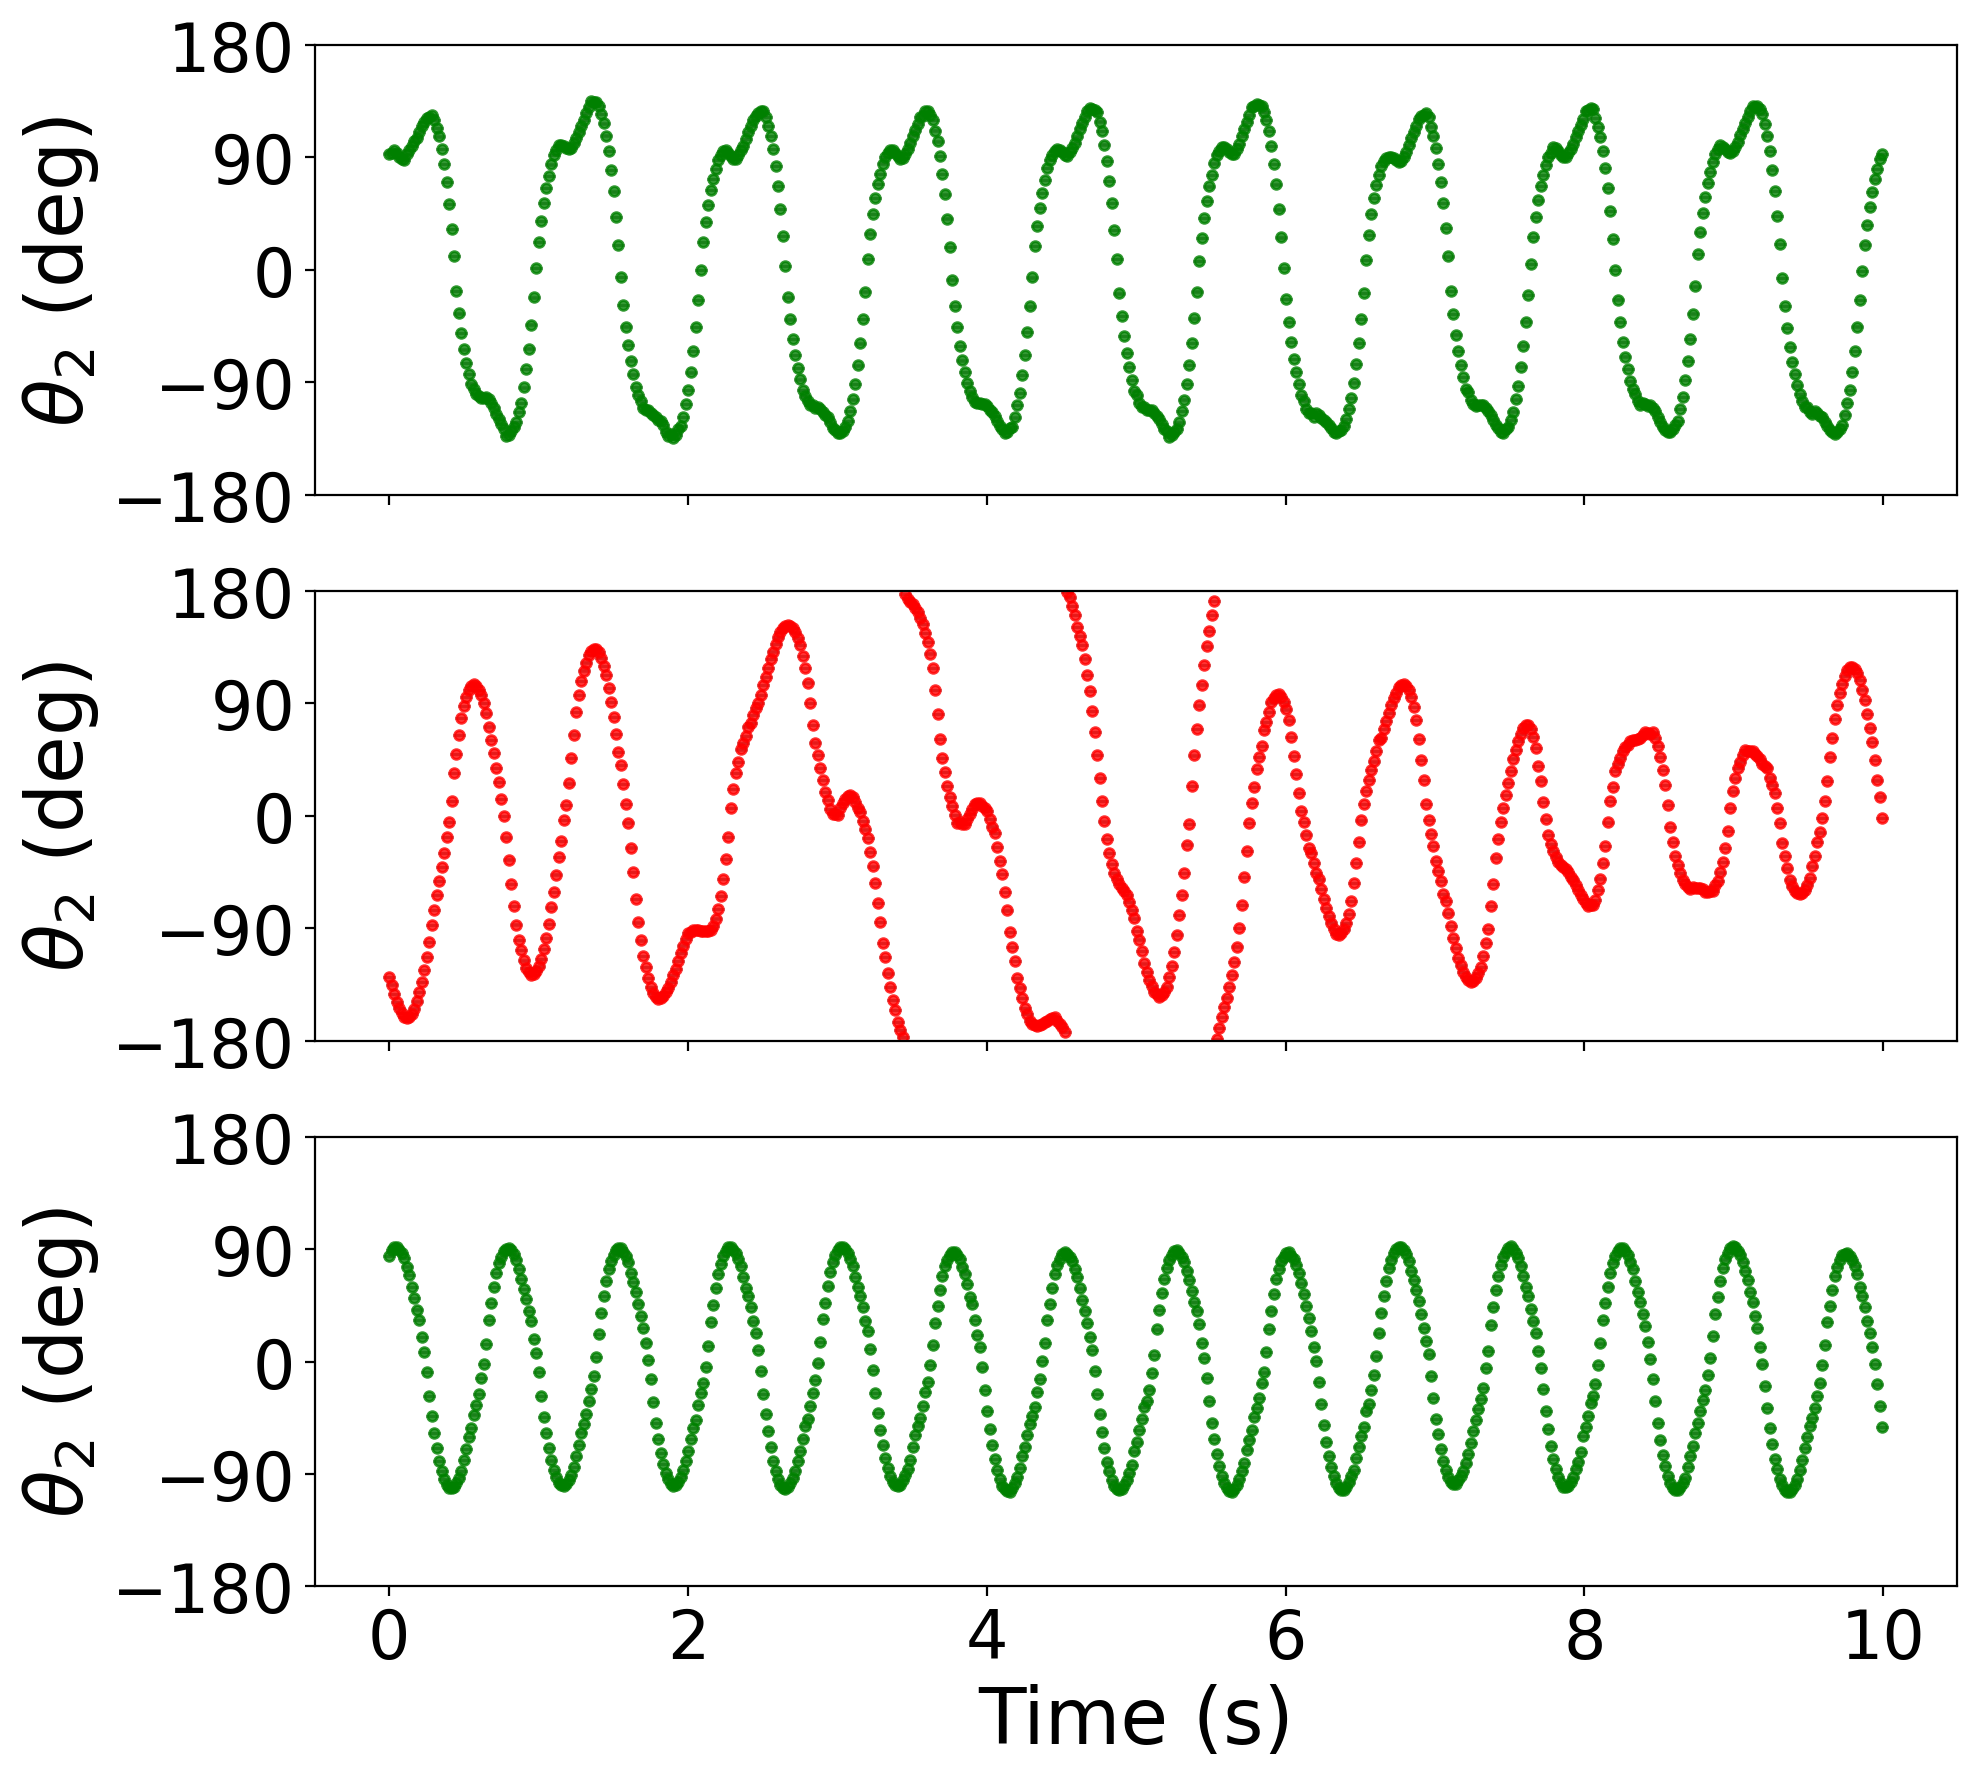
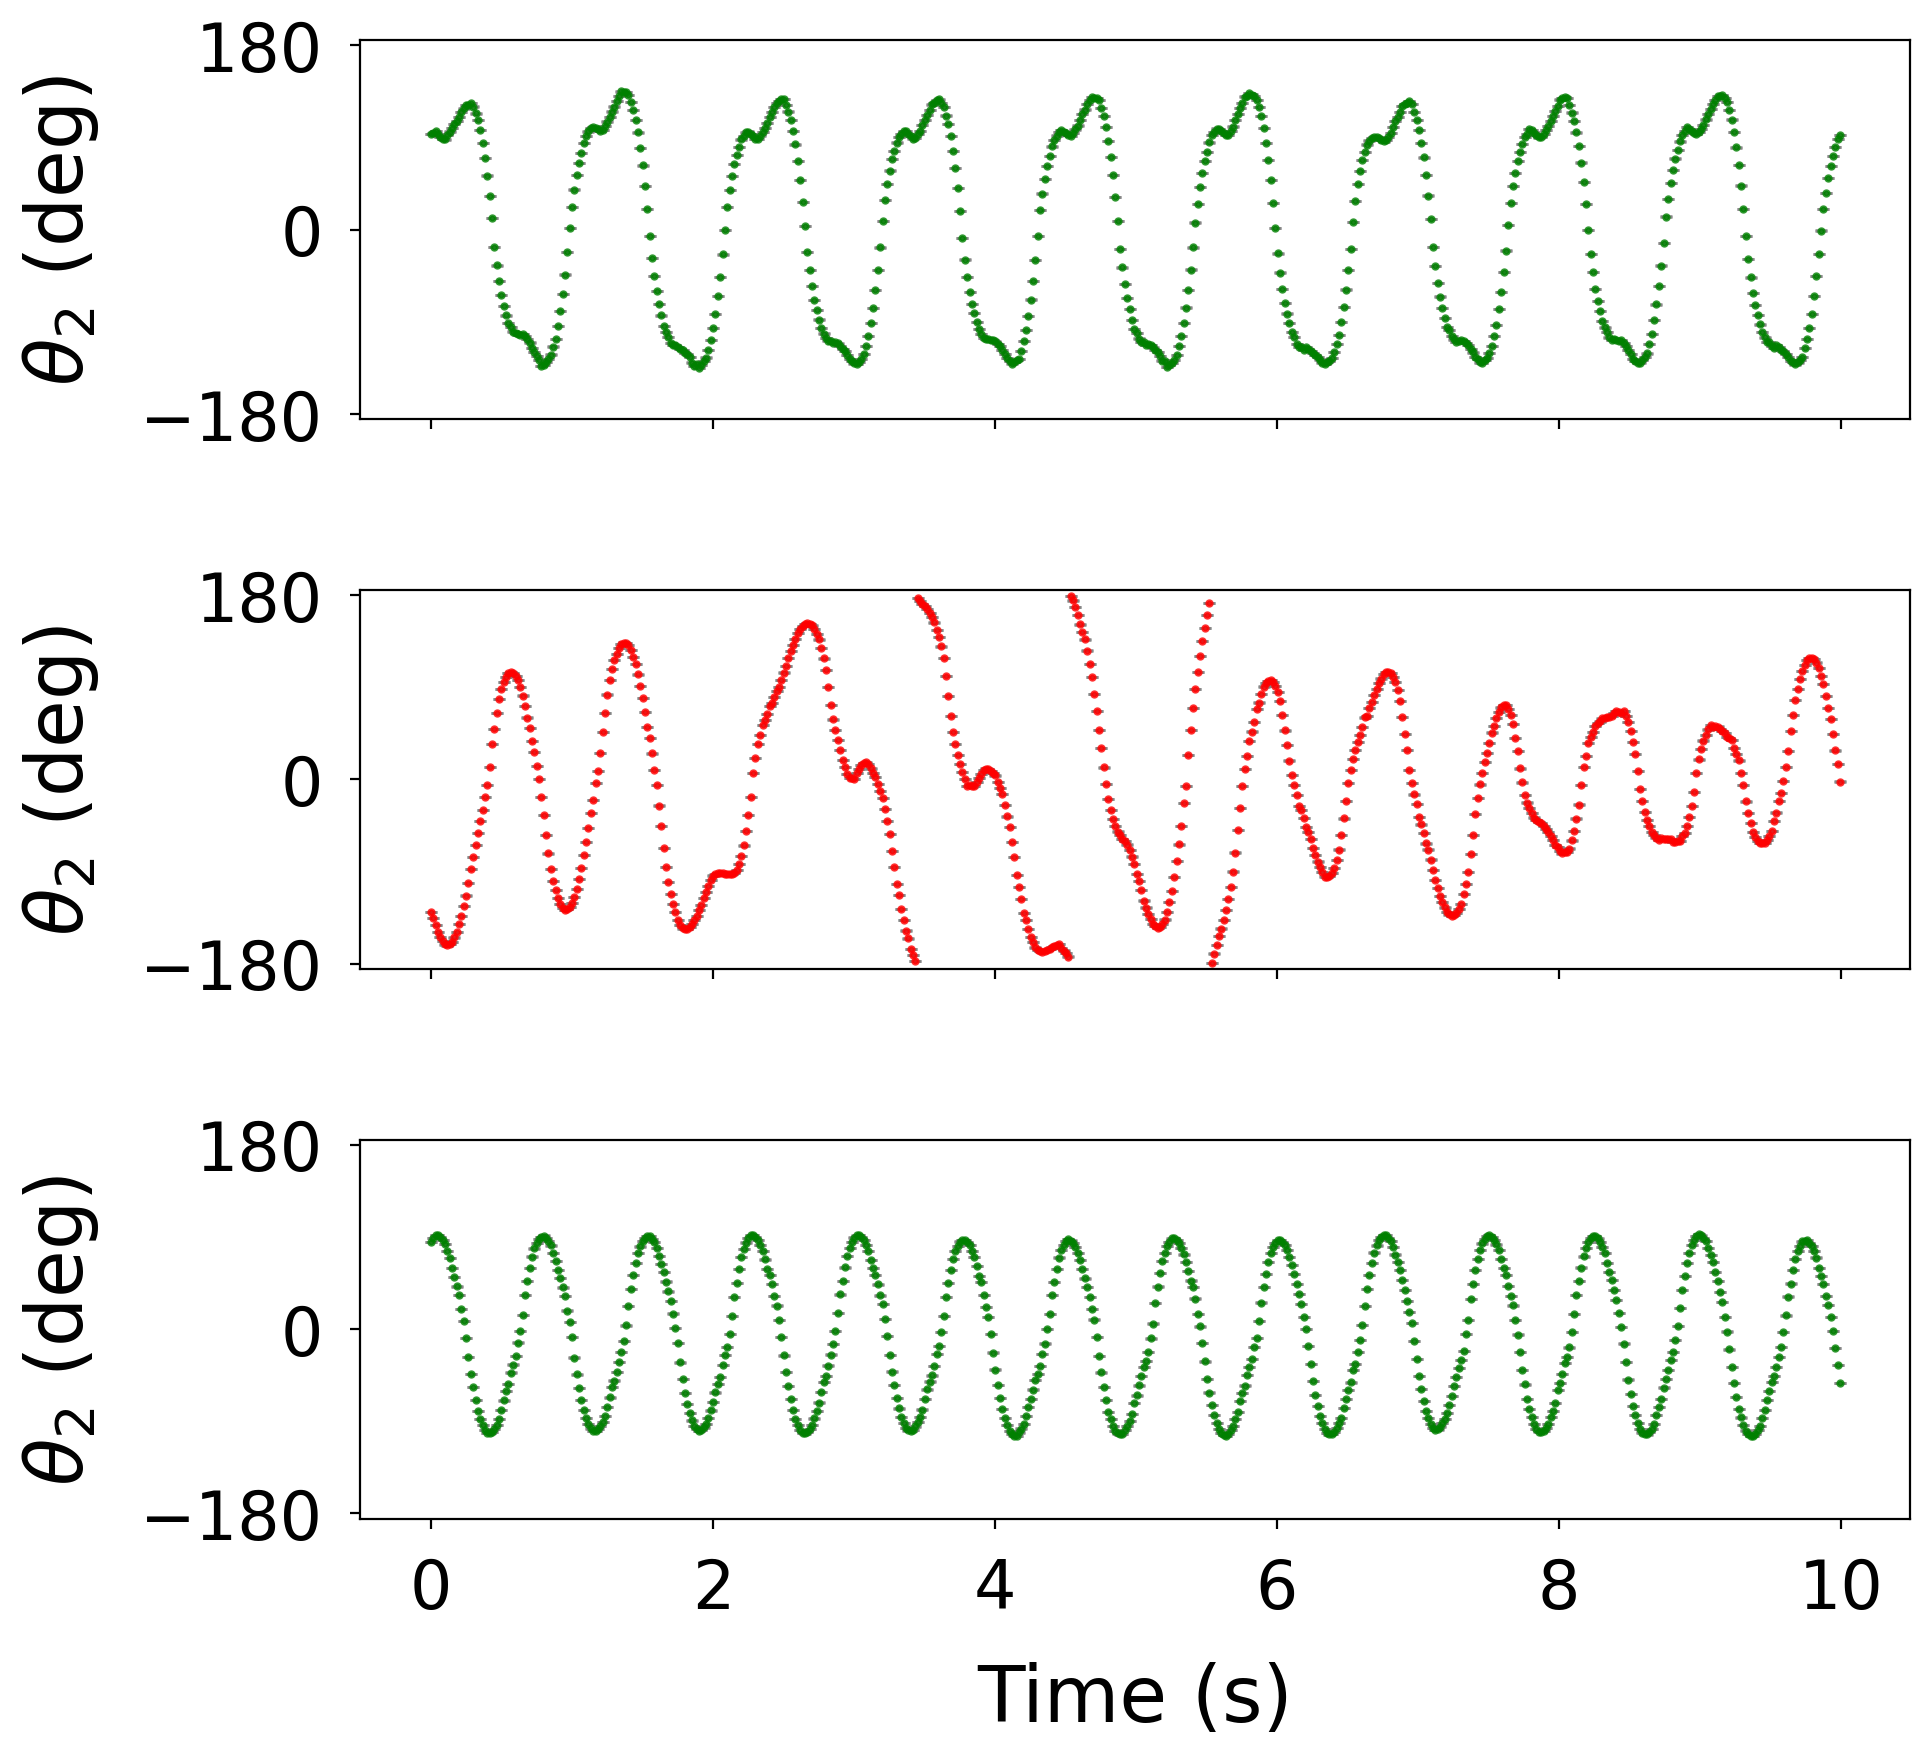
report: declutter theta2 figure — sparser markers, 3 y-ticks, more spacing
Only -180/0/180 y-ticks, smaller markers, and added inter-subplot hspace
plus tick/label padding for breathing room.

diff --git a/experiments/week6-pendulum-motor-driven/report/theta2_colored.py b/experiments/week6-pendulum-motor-driven/report/theta2_colored.py
@@ -31,11 +31,14 @@ CHOSEN_FREQS = [0.9, 1.19, 1.34]
 PANEL_COLORS = ["green", "red", "green"]
 
 # --- PLOT SETTINGS ---
-MARKER_SIZE = 7         # Size of the scatter points
+MARKER_SIZE = 4         # Size of the scatter points (smaller -> less dense)
 LABEL_FONT_SIZE = 28    # Size of the X and Y axis titles
 TICK_FONT_SIZE = 24     # Size of the numbers on the axes
-Y_LIM = (-180, 180)
-Y_TICKS = [-180, -90, 0, 90, 180]
+TICK_PAD = 10           # Gap between tick numbers and the axis
+LABEL_PAD = 14          # Gap between axis title and the tick numbers
+HSPACE = 0.45           # Vertical breathing room between subplots
+Y_LIM = (-185, 185)
+Y_TICKS = [-180, 0, 180]
 # ---------------------
 
 csv_files = glob.glob(os.path.join(BASE_DIR, "*", "tracking.csv"), recursive=True)
@@ -61,7 +64,12 @@ for file_path in csv_files:
 # =============================================================================
 # 3. LOAD & PLOT
 # =============================================================================
-fig, axs = plt.subplots(len(CHOSEN_FREQS), 1, figsize=(10, 3 * len(CHOSEN_FREQS)), sharex=True)
+fig, axs = plt.subplots(
+    len(CHOSEN_FREQS), 1,
+    figsize=(10, 3.2 * len(CHOSEN_FREQS)),
+    sharex=True,
+    gridspec_kw={"hspace": HSPACE},
+)
 axs = np.atleast_1d(axs)
 
 for i, target_freq in enumerate(CHOSEN_FREQS):
@@ -99,13 +107,12 @@ for i, target_freq in enumerate(CHOSEN_FREQS):
     # =========================================================================
     # 4. FORMATTING
     # =========================================================================
-    ax.set_ylabel(f"$\\theta_2$ (deg)", fontsize=LABEL_FONT_SIZE)
+    ax.set_ylabel(f"$\\theta_2$ (deg)", fontsize=LABEL_FONT_SIZE, labelpad=LABEL_PAD)
     ax.set_ylim(*Y_LIM)
     ax.set_yticks(Y_TICKS)
-    ax.tick_params(axis="both", which="major", labelsize=TICK_FONT_SIZE)
+    ax.tick_params(axis="both", which="major", labelsize=TICK_FONT_SIZE, pad=TICK_PAD)
 
-axs[-1].set_xlabel("Time (s)", fontsize=LABEL_FONT_SIZE)
+axs[-1].set_xlabel("Time (s)", fontsize=LABEL_FONT_SIZE, labelpad=LABEL_PAD)
 
-plt.tight_layout()
 fig.savefig(OUT_PNG, dpi=200, bbox_inches="tight")
 print(f"Saved figure -> {OUT_PNG}")
